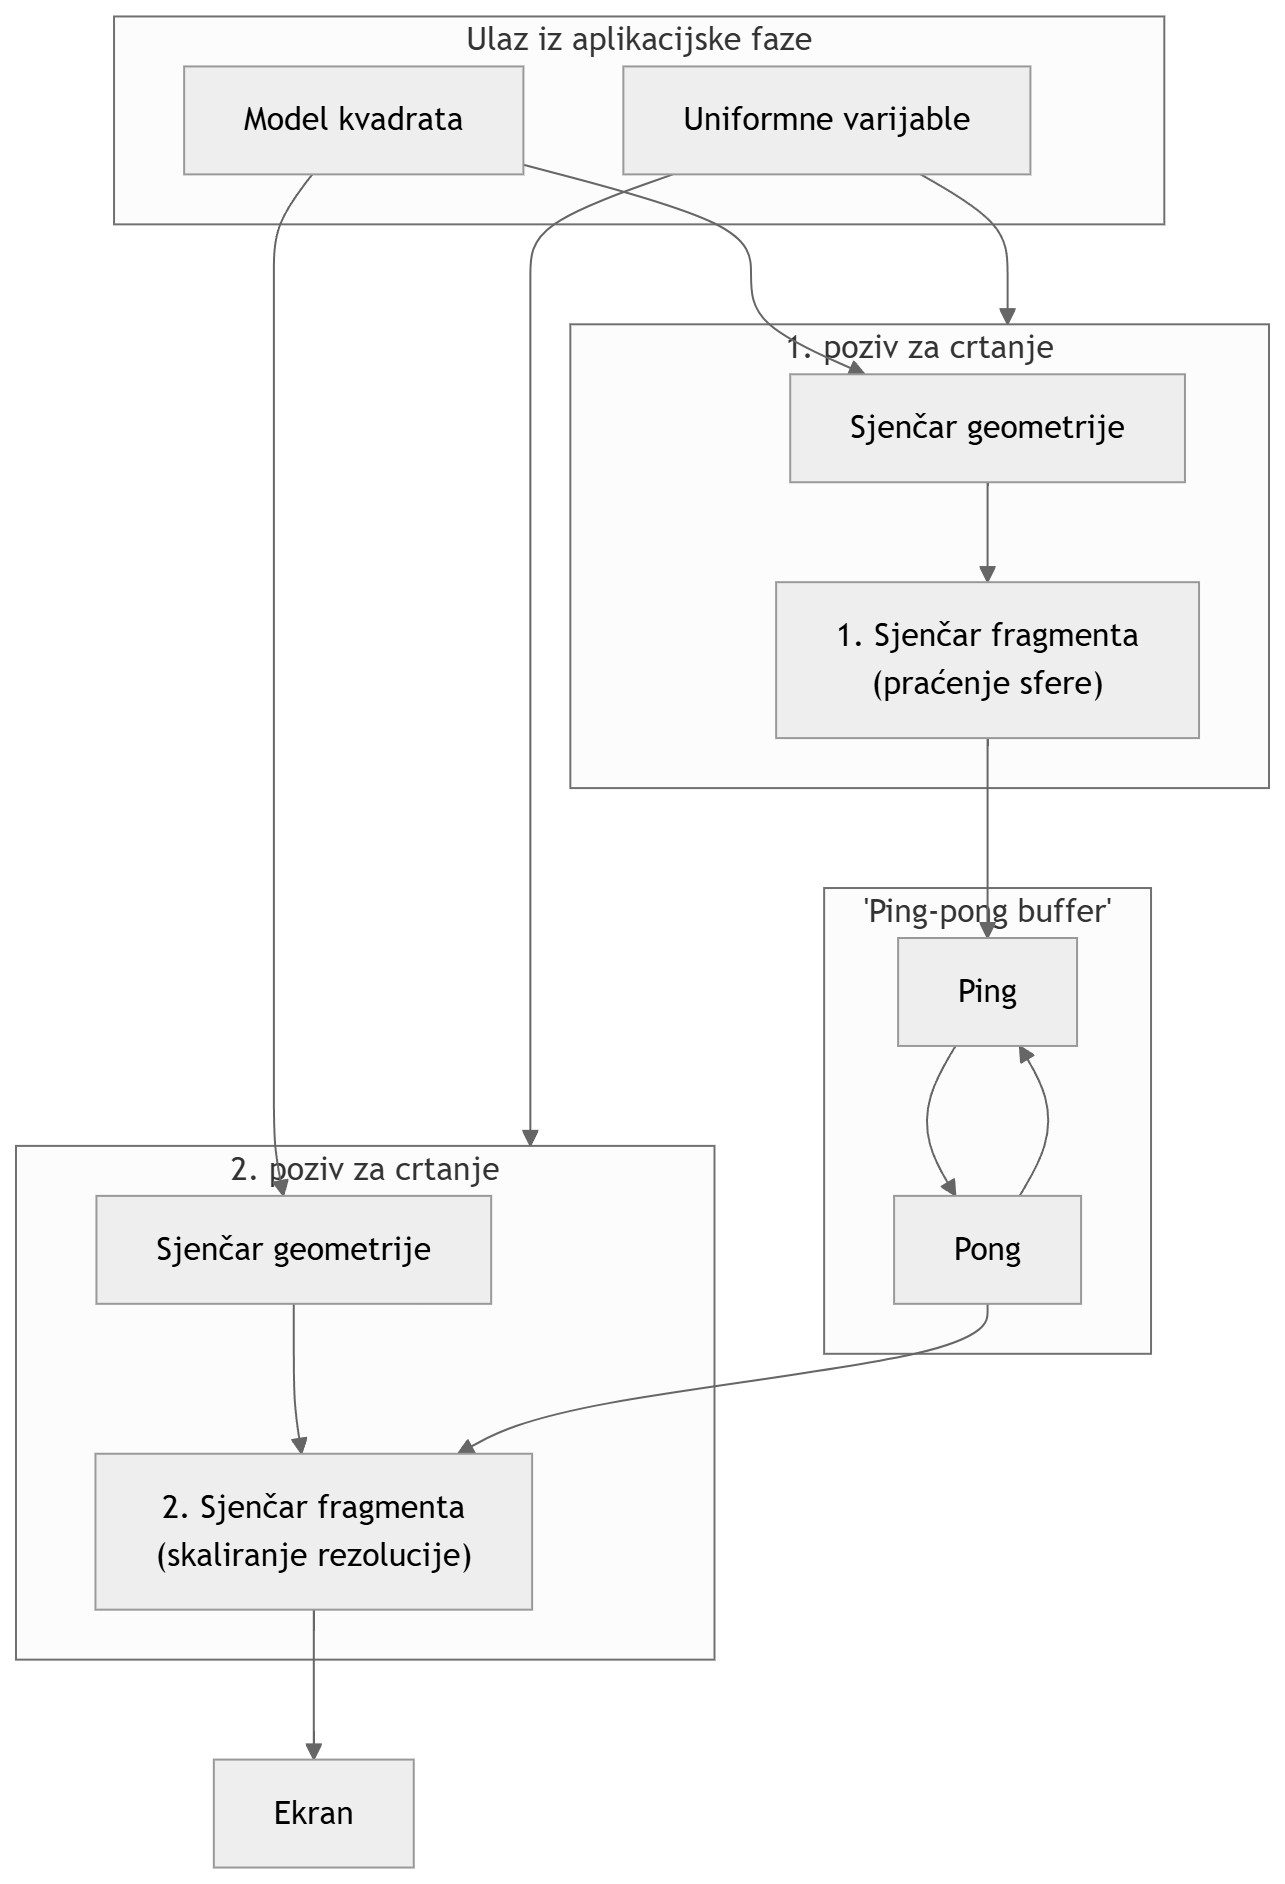
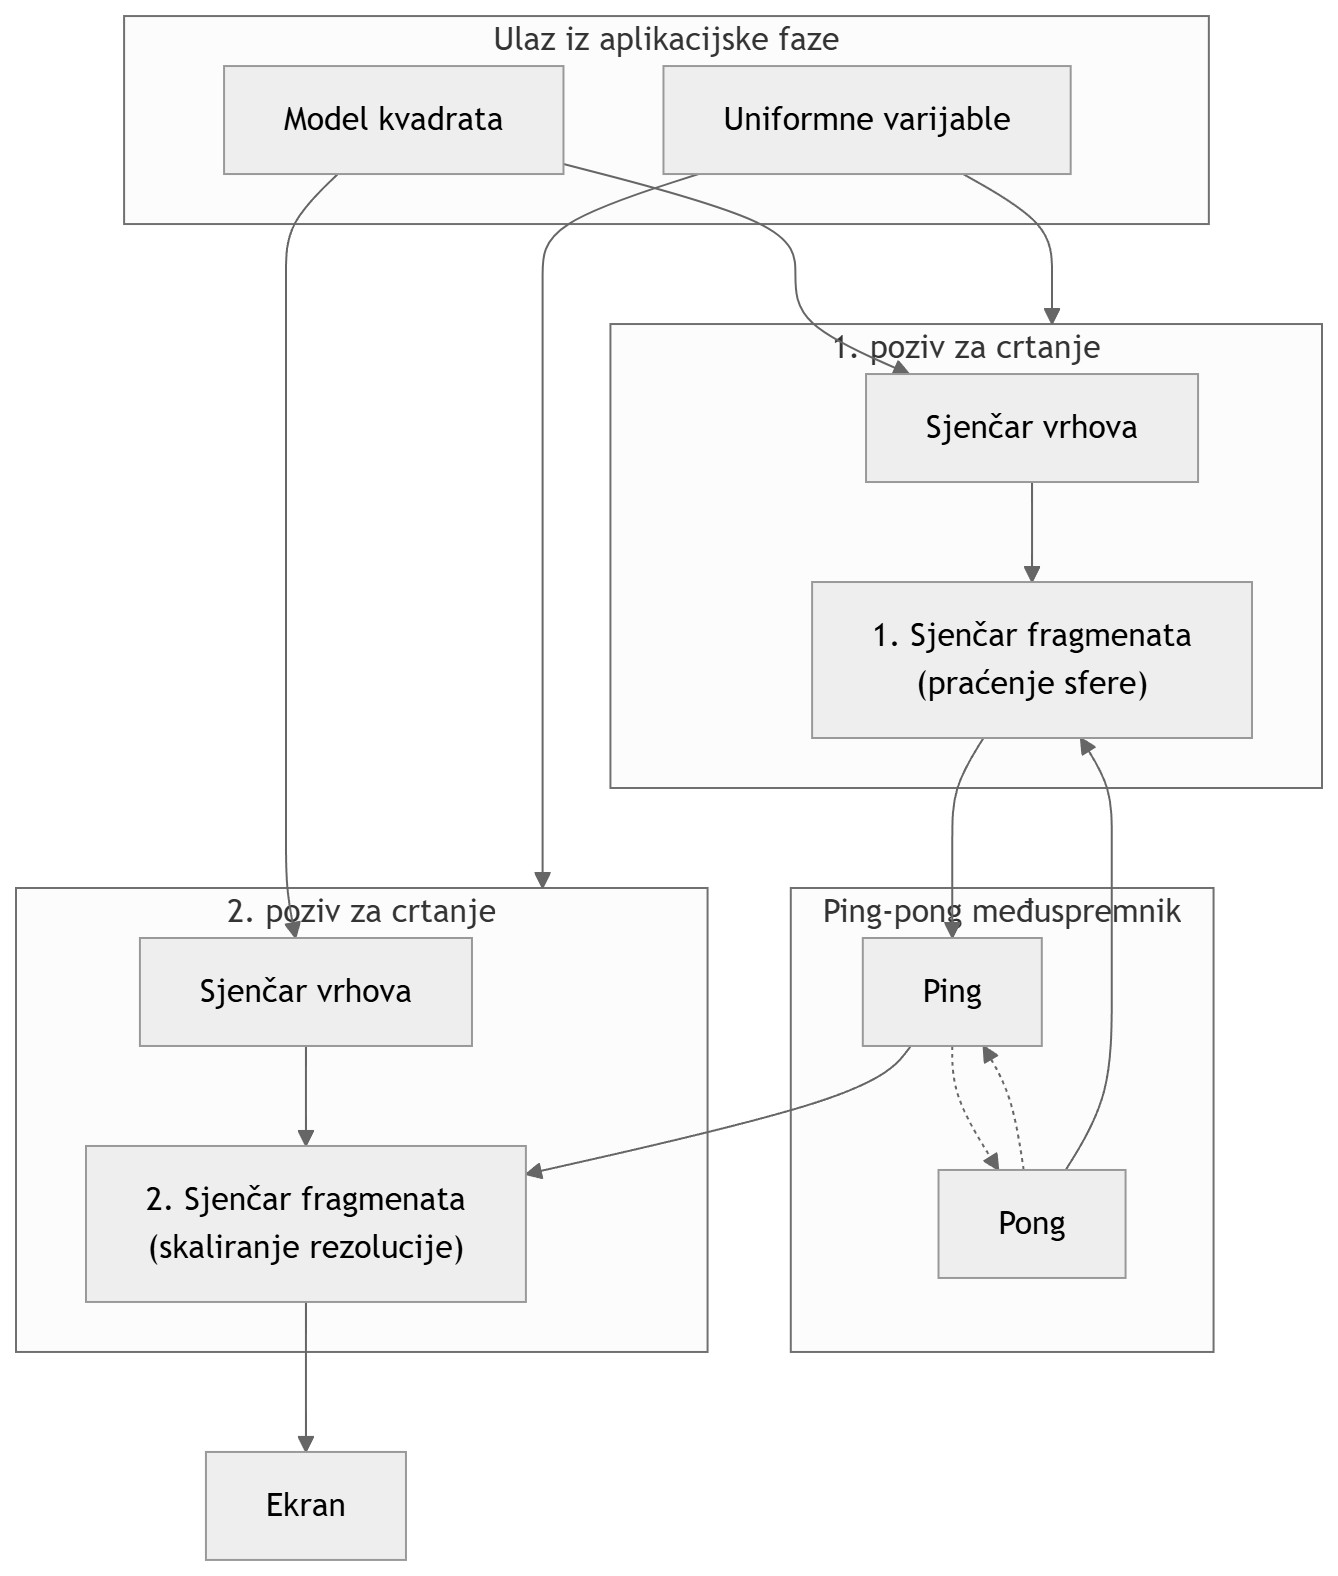
docs v2

diff --git a/docs/zavrad/zavrsni_rad.tex b/docs/zavrad/zavrsni_rad.tex
@@ -78,11 +78,11 @@
 \chapter{Uvod}
 \label{pog:uvod}
 
-Fraktali su zanimljivi oblici koji se često pojavljuju u prirodi a da nismo toga svjesni. Mogu se opaziti na snježnoj pahuljici ili na listovima biljke. Bilo bi interesantno takve strukture rekonstruirati i istražiti ih u virtualnom okruženju.
+Fraktali su zanimljivi oblici koji se često pojavljuju u prirodi, a da nismo toga svjesni. Mogu se opaziti na snježnoj pahuljici ili na listovima biljke. Bilo bi interesantno takve strukture rekonstruirati i istražiti ih u virtualnom okruženju.
 
 Cilj ovog rada je izgraditi virtualnu scenu koja može prikazivati fraktale velikom razinom detalja i omogućiti korisniku kretanje kroz scenu za razgledavanje fraktala. Da bi intuitivno kretanje bilo izvedivo, brzina iscrtavanja mora biti u stvarnom vremenu, što znači da treba postupak optimirati i treba omogućiti upravljanje kvalitetom prikaza. Dodatno bi bilo poželjno da se mogu mijenjati parametri fraktala i čak mijenjati koji se fraktali/tijela prikazuju. Za to je potrebno izgraditi korisničko sučelje za unos vrijednosti.
 
-Dodatni fokusa rada je programsko ostvarenje koristeći \emph{WebGL2} biblioteku. Nakon iskustva korištenja tog alata se mogu usporediti njegove prednosti ili mane u odnosu na druge grafičke biblioteke u \emph{web} okolini.
+Dodatni fokusa rada je programsko ostvarenje koristeći \emph{WebGL2} biblioteku. Nakon iskustva korištenja tog alata mogu se usporediti njegove prednosti ili mane u odnosu na druge grafičke biblioteke u \emph{web} okolini.
 
 %--- GLAVNI DIO ----------------------------------------------------------------------------
 
@@ -94,14 +94,14 @@ Dodatni fokusa rada je programsko ostvarenje koristeći \emph{WebGL2} biblioteku
 
 Postoji više načina na koje se može zapisati neko tijelo. U računalnoj grafici se najčešće trodimenzionalni modeli opisuju mrežom trokuta. Trokuti su praktični jer imaju jednostavnu strukturu i mogu se efikasno iscrtati. Unatoč tome, postoje nedostatci takvog pristupa. Kako bi se postigla zakrivljena površina, potrebno je izgraditi površinu s velikim brojem trokuta. Time površina nikad neće biti uistinu zakrivljena, nego će se sastojati od puno ravnih dijelova. Neke strukture (kao na primjer spužvaste strukture) zahtijevaju toliko veliki broj trokuta da se treba napraviti kompromis brisanjem detalja strukture radi optimizacije brzine iscrtavanja. Detalji se općenito dodaju modelima koristeći teksture, no u tim slučajevima stvarna geometrija još uvijek ostaje pojednostavljena.
 
-Način prikaza tijela koje će se razmatrati u ovom radu je matematički opis. Specifično, razmatrat će ju se funkcije udaljenosti (\emph{eng. Signed Distance Function, SDF}). Funkcija ima jedan parametar $p$, gdje je $p$ točka u prostoru, a rezultat funkcije $f(p)$ je udaljenost te točke od površine tijela koju funkcija opisuje. Dimenzija prostora u kojem se nalazi ulazna točka određuje funkcija (2D ili 3D). Primjer jedne takve funkcije za opis sfere je navedena u jednadžbi \eqref{eq:sdf}.
+Način prikaza tijela koji će se razmatrati u ovom radu je matematički opis. Specifično, razmatrat će se funkcije udaljenosti (\emph{eng. Signed Distance Function, SDF}). Funkcija ima jedan parametar $p$, gdje je $p$ točka u prostoru, a rezultat funkcije $f(p)$ je udaljenost te točke od površine tijela koju funkcija opisuje. Dimenzija prostora u kojem se nalazi ulazna točka određuje funkcija (2D ili 3D). Primjer jedne takve funkcije za opis sfere je navedena u jednadžbi \eqref{eq:sdf}.
 
 \begin{equation}
 	\label{eq:sdf}
 	f(p)_{\text{sfera}} = |centar - p| - radius
 \end{equation}
 
-Slika \ref{slk:sdf} prikazuje vrijednosti funkcije udaljenosti pravokutnika. Crte na slici označavaju gdje su vrijednosti funkcije jednake, to jest mogu se zamisliti kao izohipse na topografskoj karti. Bijela crta označava gdje je vrijednost udaljenosti nula, odnosno radi se o površini tijela. Osim vraćanja vrijednost udaljenosti, drugo važno svojstvo funkcije je predznak rezultata. Vrijednost je pozitivna kada je točka izvan tijela (slika \ref{slk:sdf}, narančasti dio), a negativna kada je točka unutar tijela (slika \ref{slk:sdf}, plavi dio). Koristeći navedena svojstva je moguće opisati neko tijelo. Nadalje, to je i dovoljno informacija za izvesti prikaz tog tijela.
+Slika \ref{slk:sdf} prikazuje vrijednosti funkcije udaljenosti pravokutnika. Crte na slici označavaju gdje su vrijednosti funkcije jednake, to jest mogu se zamisliti kao izohipse na topografskoj karti. Bijela crta označava gdje je vrijednost udaljenosti nula, odnosno radi se o površini tijela. Osim vraćanja vrijednost udaljenosti, drugo važno svojstvo funkcije je predznak rezultata. Vrijednost je pozitivna kada je točka izvan tijela (slika \ref{slk:sdf}, narančasti dio), a negativna kada je točka unutar tijela (slika \ref{slk:sdf}, plavi dio). Koristeći navedena svojstva moguće je opisati neko tijelo. Nadalje, to je i dovoljno informacija za izvesti prikaz tog tijela.
 
 \begin{figure}[htb]
 	\centering
@@ -118,7 +118,7 @@ Fraktali su oblici sa svojstvom samoponavljanja. Odnosno, postoji uzorak (\emph{
 \begin{figure}[htb]
 	\centering
 	\includegraphics[width=0.38\linewidth]{images/fern.jpg}
-	\caption{Fraktalna struktura lista paprata \cite{fern}}
+	\caption{Fraktalna struktura lista paprati \cite{fern}}
 	\label{slk:fern}
 \end{figure}
 
@@ -127,7 +127,7 @@ Najčešće se koristi matematički zapis za opis jednostavnih oblika kao što s
 \section{Algoritam iscrtavanja}
 \label{podpog:algoritam_iscrtavanja}
 
-Cilj je grafički prikazati fraktale. Potrebno je osmisliti algoritam koji uzima opis tijela u obliku funkcije udaljenosti i omogućuje iscrtavanje trodimenzionalnog prikaza tog tijela na ekranu. Koristi se metoda praćenja sfere (\emph{engl. Sphere Tracing}), što je podvrsta metode marširanja zrake (\emph{engl. Ray Marching}), što je još podvrsta metode praćenja zrake (\emph{engl. Ray Tracing}). Metoda praćenja zrake određuje boju svakog piksela s pomoću zrake koja počinje u očištu kamere i prolazi kroz taj piksel. Metoda marširanja zrake koristi definiranu zraku tako da postepeno korača (maršira) u smjeru zrake tijekom računanja. Praćenje sfere dalje definira koračanje tako da je duljina svakog koraka određena na temelju funkcije udaljenosti. Prikazivanjem svakog koraka i pripadajuće vrijednosti udaljenosti vizualizira se sfera (ili kružnica ako se gleda u 2D prostoru), što se može vidjeti na slici \ref{slk:spheretracing}.
+Cilj je grafički prikazati fraktale. Potrebno je osmisliti algoritam koji uzima opis tijela u obliku funkcije udaljenosti i omogućuje iscrtavanje trodimenzionalnog prikaza tog tijela na ekranu. Koristi se metoda praćenja sfere (\emph{engl. Sphere Tracing}), što je podvrsta metode marširanja zrake (\emph{engl. Ray Marching}), što je još podvrsta metode praćenja zrake (\emph{engl. Ray Tracing}). Metoda praćenja zrake određuje boju svakog piksela s pomoću zrake koja počinje u očištu kamere i prolazi kroz taj piksel. Metoda koračanja duž zrake koristi definiranu zraku tako da postepeno korača u smjeru zrake tijekom računanja. Praćenje sfere dalje definira koračanje tako da je duljina svakog koraka određena na temelju funkcije udaljenosti. Prikazivanjem svakog koraka i pripadajuće vrijednosti udaljenosti vizualizira se sfera (ili kružnica ako se gleda u 2D prostoru), što se može vidjeti na slici \ref{slk:spheretracing}.
 
 \begin{figure}[htb]
 	\centering
@@ -164,9 +164,9 @@ pracenje_sfere(org, dir, max, epsilon) {
 \section{Korišteni alati}
 \label{podpog:koristeni_alati}
 
-Primarni alat koji je korišten za ovaj rad je biblioteka \emph{WebGL2}. To je varijanta popularne grafičke biblioteke \emph{OpenGL} koja je prilagođena za rad na internetskom pregledniku i jeziku \emph{JavaScript}. Mogućnost korištenja grafičkih funkcija u internetskom pregledniku ima mnoge prednosti: omogućuje grafičke vizualizacije unutar web stranica, izradu video igara koje su dostupne bez instaliranja izvršne datoteke i generalni pristup procesorske moći grafičke kartice unutar jezika \emph{JavaScript}. Biblioteka \emph{WebGL2} nije sasvim identična \emph{OpenGL}, a jedna bitna razlika je što ne omogućuje izradu računskih sjenčara (\emph{engl. compute shaders}). Takvi sjenčari su pogodni za iscrtavanje postupcima temeljenim zrakama kao praćenje sfera, no moguće je izvesti takvo iscrtavanje koristeći sjenčare fragmenata.
+Primarni alat koji je korišten za ovaj rad je biblioteka \emph{WebGL2}. To je varijanta popularne grafičke biblioteke \emph{OpenGL} koja je prilagođena za rad na internetskom pregledniku i jeziku \emph{JavaScript}. Mogućnost korištenja grafičkih funkcija u internetskom pregledniku ima mnoge prednosti: omogućuje grafičke vizualizacije unutar web stranica, izradu video igara koje su dostupne bez instaliranja izvršne datoteke i generalni pristup procesorske moći grafičke kartice unutar jezika \emph{JavaScript}. Biblioteka \emph{WebGL2} nije sasvim identična \emph{OpenGL}, a jedna bitna razlika je što ne omogućuje izradu računskih sjenčara (\emph{engl. compute shaders}). Takvi sjenčari su pogodni za iscrtavanje postupcima temeljenim na zrakama kao što je praćenje sfera, no moguće je izvesti takvo iscrtavanje koristeći sjenčare fragmenata.
 
-Programski jezik \emph{JavaScript} ima svojih prednosti što se tiče grafičkih aplikacija jer s alatima za prikaz web stranica \emph{HTML} i \emph{CSS} pruža jednostavan i prilagodljiv način izrade korisničkog sučelja za upravljanje programom. Programska implementacija grafičkih sučelja u drugim jezicima kao što je primjerice \emph{C++} bi bila znatno teža i bilo bi potrebno koristiti biblioteke kao na primjer \emph{Dear ImGui} \cite{imgui}, koja ima manju fleksibilnost u dizajnu. Dodatno, web aplikacije su orijentirane na portabilan dizajn tako da neka web stranica može raditi na više vrsta uređaja. To uključuje i ovaj projekt: prikaz fraktala se može otvoriti na računalu, ali i na mobitelu, a sučelje se prilagođava na orijentaciju i veličinu ekrana. Naravno, kvaliteta i brzina iscrtavanja će ovisiti o grafičkom procesoru uređaja na kojem se izvodi.
+Programski jezik \emph{JavaScript} ima svojih prednosti što se tiče grafičkih aplikacija jer s alatima za prikaz web stranica \emph{HTML} i \emph{CSS} pruža jednostavan i prilagodljiv način izrade korisničkog sučelja za upravljanje programom. Programska implementacija grafičkih sučelja u drugim jezicima kao što je primjerice \emph{C++} bi bila znatno teža i bilo bi potrebno koristiti biblioteke kao na primjer \emph{Dear ImGui} \cite{imgui}, koja ima manju fleksibilnost u dizajnu. Dodatno, web aplikacije su orijentirane na portabilan dizajn tako da neka web stranica može prikazivati na više vrsta uređaja. To uključuje i ovaj projekt: prikaz fraktala se može otvoriti na računalu, ali i na mobitelu, a sučelje se prilagođava na orijentaciju i veličinu ekrana. Naravno, kvaliteta i brzina iscrtavanja će ovisiti o grafičkom procesoru uređaja na kojem se izvodi.
 
 Aplikaciji se može pristupiti na poslužitelju \emph{GitHub Pages}. To je praktično jer se prilikom izrade aplikacije \emph{Github} koristio za kontrolu verzija pa se izvorni tekst programa već nalazi na toj platformi. Platforma \emph{GitHub Pages} pruža statičko posluživanje, tj. program se izvodi na klijentu, a ne na poslužitelju, što je sasvim dovoljno za ovaj program.
 
@@ -197,7 +197,7 @@ Klasa \emph{Camera} služi za čuvanje informacija potrebnih za inicijalizaciju 
 \section{Postupak iscrtavanja}
 \label{podpog:postupak_iscrtavanja}
 
-Iscrtavanje je stvaranje slike virtualne scene koja se prikazuje na ekranu. Za scene s ciljem prikaza u stvarnom vremenu, frekvencija iscrtavanja mora biti dovoljno velika. Radi brzine, veliki dio postupka iscrtavanja je izveden sklopovski i postoji definirani grafički protočni sustav kojeg se treba pridržavati da bi se nacrtao neki 3D model. Prilikom korištenja biblioteke \emph{WebGL2} potrebno je obavezno definirati barem sjenčara vrhova (\emph{engl. vertex shader}) i sjenčara fragmenata (\emph{engl. fragment shader}). U ovome slučaju, modeli koje želimo prikazati se ne sastoje od trokuta i nije potrebna geometrijska faza. Bilo bi praktično koristiti računske sjenčare (\emph{engl. compute shaders}), no kao što je već navedeno, biblioteka \emph{WebGL2} ne omogućuje izradu računskih sjenčara. Stoga je postupak iscrtavanja izveden onime što nam je na raspolaganju i što se može koristiti u okviru biblioteke. U nastavku su objašnjeni postupci iscrtavanja u sastavljenom programu i navedeni su ključni objekti koji se koriste pri iscrtavanju. Slika \ref{slk:pipeline} prikazuje redoslijed grafičkih programa i objekte koji se opisuju.
+Iscrtavanje je stvaranje slike virtualne scene koja se prikazuje na ekranu. Za scene s ciljem prikaza u stvarnom vremenu, frekvencija iscrtavanja mora biti dovoljno velika. Radi brzine, veliki dio postupka iscrtavanja je izveden sklopovski i postoji definirani grafički protočni sustav kojeg se treba pridržavati da bi se nacrtao neki 3D model. Prilikom korištenja biblioteke \emph{WebGL2} potrebno je obavezno definirati barem sjenčar vrhova (\emph{engl. vertex shader}) i sjenčar fragmenata (\emph{engl. fragment shader}). U ovome slučaju, modeli koje želimo prikazati se ne sastoje od trokuta i nije potrebna geometrijska faza. Bilo bi praktično koristiti računske sjenčare (\emph{engl. compute shaders}), no kao što je već navedeno, biblioteka \emph{WebGL2} ne omogućuje izradu računskih sjenčara. Stoga je postupak iscrtavanja izveden onime što nam je na raspolaganju i što se može koristiti u okviru biblioteke. U nastavku su objašnjeni postupci iscrtavanja u sastavljenom programu i navedeni su ključni objekti koji se koriste pri iscrtavanju. Slika \ref{slk:pipeline} prikazuje redoslijed grafičkih programa i objekte koji se opisuju.
 
 Crtanje jednog okvira se izvodi u dva poziva na crtanje (\emph{engl. draw calls}). U svakom pozivu na crtanje se izvodi standardna grafička protočna struktura: sjenčar vrhova se iterira po točkama modela, a sjenčar fragmenata se iterira po fragmentima. Jedini pravi model koji se koristi je kvadrat (dva trokuta) koji pokriva cijeli ekran. Sjenčar vrhova samo prosljeđuje pozicije točaka modela kvadrata. Model i sjenčar vrhova su identični za oba poziva za crtanje. Gotovo sva logika koja se opisuje je u sjenčarima fragmenata.
 
@@ -205,7 +205,7 @@ Prvo iscrtavanje izvodi algoritam praćenje sfere i on obavi sjenčanje. Za izra
 
 \newpage{}
 
-Drugi poziv uzima sliku u ping-pong međuspremniku, podesi boju slike i prikaže rezultat na \emph{canvas} \emph{HTML} element stranice. Koriste se dva poziva za crtanje jer prvom pozivu (koji je više računski intenzivan) se može iscrtati slika manje rezolucije, a zatim se u drugom pozivu može skalirati međurezultat u rezoluciju za prikazivanje. 
+Drugi poziv uzima sliku u ping-pong međuspremniku, podesi boju slike i prikaže rezultat na \emph{canvas} \emph{HTML} element stranice. Koriste se dva poziva za crtanje jer u prvom pozivu (koji je više računski intenzivan) se može iscrtati slika manje rezolucije, a zatim se u drugom pozivu može skalirati međurezultat u rezoluciju za prikazivanje. 
 
 \begin{figure}[htb]
 	\centering
@@ -219,9 +219,9 @@ Drugi poziv uzima sliku u ping-pong međuspremniku, podesi boju slike i prikaže
 \section{Korisničko sučelje}
 \label{podpog:korisnicko_sucelje}
 
-Dizajn korisničkog sučelja je načinjen uz pomoć standardnih \emph{HTML} elementa i \emph{CSS} pravila, a funkcionalnost sučelja je ostvarena u programskom jeziku \emph{JavaScript}. Izgled sučelja je vidljiv na slici \ref{slk:ui}. Cilj sučelja je omogućiti korisniku pristup što većem broju varijabli. Uz kretanje kroz virtualni prostor, ostvarena je mogućnost podešavanja načina prikaza i mijenjanje funkcija udaljenosti koje se prikazuju. Tekst sučelja je na engleskom jeziku. Upravljanje varijablama je ostvareno raznim kontrolama. Većinu elemenata imaj kratak opis koji se pojavi ako se kratko vrijeme ostavi miš iznad njih.
+Dizajn korisničkog sučelja je načinjen uz pomoć standardnih \emph{HTML} elementa i \emph{CSS} pravila, a funkcionalnost sučelja je ostvarena u programskom jeziku \emph{JavaScript}. Izgled sučelja je vidljiv na slici \ref{slk:ui}. Cilj sučelja je omogućiti korisniku pristup što većem broju varijabli. Uz kretanje kroz virtualni prostor, ostvarena je mogućnost podešavanja načina prikaza i mijenjanje funkcija udaljenosti koje se prikazuju. Tekst sučelja je na engleskom jeziku. Upravljanje varijablama je ostvareno raznim kontrolama. Većina elemenata imaju kratak opis koji se pojavi ako se kratko vrijeme ostavi miš iznad njih.
 
-Sučelje je podijeljeno u četiri kartice: generalne postavke, postavke vezane uz praćenje sfere, unos funkcije udaljenosti i informacije o kontrolama. U kartici za informacije o kontrolama je su navedene i opisane funkcionalnosti tipki na tipkovnici. Generalne postavke uključuju podešavanje kamere, rezolucije i slikanje ekrana. Postavke za praćenje sfere imaju najveći utjecaj na brzinu iscrtavanja i mogu upravljati oblikom tijela. Konačno, u zadnjoj kartici se može unijeti funkcija udaljenosti. Postoje kratke upute za izradu funkcija i jedan primjer koda.
+Sučelje je podijeljeno u četiri kartice: generalne postavke, postavke vezane uz praćenje sfere, unos funkcije udaljenosti i informacije o kontrolama. U kartici za informacije o kontrolama su navedene i opisane funkcionalnosti tipki na tipkovnici. Generalne postavke uključuju podešavanje kamere, rezolucije i slikanje ekrana. Postavke za praćenje sfere imaju najveći utjecaj na brzinu iscrtavanja i mogu upravljati oblikom tijela. Konačno, u zadnjoj kartici se može unijeti funkcija udaljenosti. Postoje kratke upute za izradu funkcija i jedan primjer koda.
 
 \begin{figure}[htb]
 	\centering
@@ -237,7 +237,7 @@ Sučelje je podijeljeno u četiri kartice: generalne postavke, postavke vezane u
 
 Funkcija udaljenosti se unosi u tekstualni okvir u obliku izvornog teksta programa u programskom jeziku \emph{GLSL}. Biblioteka \emph{WebGL2} koristi programski jezik \emph{GLSL} za sjenčare. Nakon unosa programskog koda treba se pokrenuti kompajliranje kako bi se uneseni programski kod primijenio. Prvo se izbriše postojeći program sjenčar kojeg biblioteka \emph{WebGL2} koristi za iscrtavanje. Zatim se uneseni izvorni kod u obliku teksta spoji s izvornim tekstom programa ostatka sjenčara fragmenata. Konačno se novi spojeni izvorni kod pošalje grafičkoj kartici, kompajlira se i stvori se novi program za iscrtavanje. Ako dođe do greške prilikom kompajliranja (kao na primjer sintaksna greška unesenog koda), ispisat će se poruka koja daje informaciju o greški radi jednostavnijeg popravljanja koda. 
 
-Zadana funkcija udaljenosti koja se koristi kada se pokrene program je navedena u slici \ref{alg:sdf}. To je ujedno i implementacija izraza \ref{eq:sdf} iz potpoglavlja \ref{podpog:funkcije_udaljenosti} za oblik sfere. Sfera se nalazi u centru koordinatnog sustava i radius sfere poprima vrijednost varijable \emph{uniforms.custom\_b}. Program ima nekoliko uniformnih varijabli sjenčara koje su namijenjene za korištenje u funkcijama udaljenosti (u to je uključena varijabla \emph{uniforms.custom\_b}). Te varijable omogućuju podešavanje vrijednosti proizvoljnih brojeva u funkciji kroz sučelje tako da nije potrebno ponovno prevođenje koda nakon svake promjene.
+Zadana funkcija udaljenosti koja se koristi kada se pokrene program je navedena na slici \ref{alg:sdf}. To je ujedno i implementacija izraza \ref{eq:sdf} iz potpoglavlja \ref{podpog:funkcije_udaljenosti} za oblik sfere. Sfera se nalazi u centru koordinatnog sustava i radius sfere poprima vrijednost varijable \emph{uniforms.custom\_b}. Program ima nekoliko uniformnih varijabli sjenčara koje su namijenjene za korištenje u funkcijama udaljenosti (u to je uključena varijabla \emph{uniforms.custom\_b}). Te varijable omogućuju podešavanje vrijednosti proizvoljnih brojeva u funkciji kroz sučelje tako da nije potrebno ponovno prevođenje koda nakon svake promjene.
 
 \begin{code}{Funkcija udaljenosti koja opisuje sferu}{alg:sdf}
 float SDF(vec3 p) {
@@ -251,7 +251,7 @@ float SDF(vec3 p) {
 \section{Ugrađeni fraktali}
 \label{podpog:ugradjeni_fraktali}
 
-Sučelje nudi odabir funkcije udaljenosti koja se prikazuje. Prvi odabir je \emph{"Custom"}, što znači da prikazuje funkciju koja se nalazi u polju za unos funkcije. A druge opcije su gotove funkcije četiri popularnih fraktala: \emph{mandelbox} \cite{mandelbox} (slika \ref{slk:mandelbox}), \emph{mandelbulb} \cite{mandelbulb} (slika \ref{slk:mandelbulb}), Kochova krivulja \cite{kochcurve} (slika \ref{slk:kochcurve}) i \emph{juliabulb} \cite{juliabulb} (slika \ref{slk:juliabulb}). Funkcije tih fraktala su pronađene na Internetu, te se njihovi linkovi nalaze u literaturi.
+Sučelje nudi odabir funkcije udaljenosti koja se prikazuje. Prvi odabir je \emph{"Custom"}, što znači da prikazuje funkciju koja se nalazi u polju za unos funkcije. A druge opcije su gotove funkcije četiri popularnih fraktala: \emph{mandelbox} \cite{mandelbox} (slika \ref{slk:mandelbox}), \emph{mandelbulb} \cite{mandelbulb} (slika \ref{slk:mandelbulb}), Kochova krivulja \cite{kochcurve} (slika \ref{slk:kochcurve}) i \emph{juliabulb} \cite{juliabulb} (slika \ref{slk:juliabulb}). Funkcije tih fraktala su pronađene na Internetu, te se njihove poveznice nalaze u literaturi.
 
 \begin{figure}[htb]
     \centering
@@ -283,7 +283,7 @@ Sučelje nudi odabir funkcije udaljenosti koja se prikazuje. Prvi odabir je \emp
     \end{tabular}
 \end{figure}
 
-Za svakog od fraktala je moguće mijenjati nekoliko njegovih parametra. Slika \ref{slk:mandelbox_test} je primjer fraktala \emph{mandelbox} s različitim vrijednostima parametra. Interesantno je vidjeti koliko se oblik izmijeni promjenom par brojeva.
+Za svaki od fraktala je moguće mijenjati nekoliko njegovih parametra. Slika \ref{slk:mandelbox_test} je primjer fraktala \emph{mandelbox} s različitim vrijednostima parametra. Interesantno je vidjeti koliko se oblik izmijeni promjenom par brojeva.
 
 \begin{figure}[htb]
     \centering
@@ -406,7 +406,7 @@ Drugi način prikaza služi za prikaz vrijednosti normale (slika \ref{slk:normal
     \label{slk:normals}
 \end{figure}
 
-Za aproksimaciju derivacije funkcije koristi se metoda središnjih razlika (\emph{engl. central difference method}) navedena u izrazu \ref{eq:cdm}). Funkcija se mora evaluirati dva puta za svaku os (šest puta za tri osi) i kao parametar se koristi proizvoljan vrlo mali broj $dx$. Izračuna normale u točki je naveden u algoritmu na slici \ref{alg:normals}.
+Za aproksimaciju derivacije funkcije koristi se metoda središnjih razlika (\emph{engl. central difference method}) navedena u izrazu (\ref{eq:cdm}). Funkcija se mora evaluirati dva puta za svaku os (šest puta za tri osi) i kao parametar se koristi proizvoljan vrlo mali broj $dx$. Izračuna normale u točki je naveden u algoritmu na slici \ref{alg:normals}.
 
 \begin{equation}
 	\label{eq:cdm}
@@ -758,7 +758,7 @@ Na slikama koje slijede vizualizirano je nekoliko fraktala s globalnim osvjetlje
 
 U ovom radu su vizualizirani fraktali. Prikaz je dovoljno računski jednostavan pa se je brzina iscrtavanja odvija u stvarnom vremenu. Istovremeno je dostupna mogućnost povećanja kvalitete i korištenje globalnog osvjetljenja za dobivanje kvalitetnih slika. 
 
-Može se zaključiti da je korištena grafička biblioteka \emph{WebGL2} dovoljno sposobna za ovakve zadatke iako ne nudi mogućnost korištenja računskih sjenčara. Veliki broj uređaja i internetskih preglednika podržava biblioteku \emph{WebGL2} pa nije bilo problema prilikom ispitivanju aplikacije na drugim uređajima, što je prednost u odnosu na moderniju alternativu biblioteke \emph{WebGPU}, koja je naprednija, ali još ne podržava veliki broj uređaja.
+Može se zaključiti da je korištena grafička biblioteka \emph{WebGL2} dovoljno sposobna za ovakve zadatke iako ne nudi mogućnost korištenja računskih sjenčara. Veliki broj uređaja i internetskih preglednika podržava biblioteku \emph{WebGL2} pa nije bilo problema prilikom ispitivanja aplikacije na drugim uređajima, što je prednost u odnosu na moderniju alternativu biblioteke \emph{WebGPU}, koja je naprednija, ali još ne podržava veliki broj uređaja.
 
 Najteže je bilo ostvariti korisničko sučelje. Nije korištena biblioteka za \emph{widgete}, stoga su svi ulazni elementi ostvareni u okviru ovog rada. Trebalo je ostvariti sinkronizaciju vrijednosti varijabli u sučelju s pripadajućim vrijednostima uniformnih varijabli u sjenčarima. Kontrole na mobilnim uređajima su bile neintuitivne za izvesti zato što su na raspolaganju dostupne samo informacije točaka prstiju koji diraju ekran. 
 